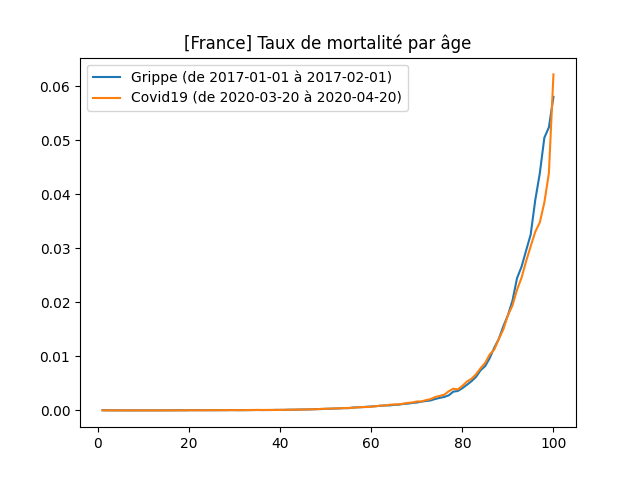
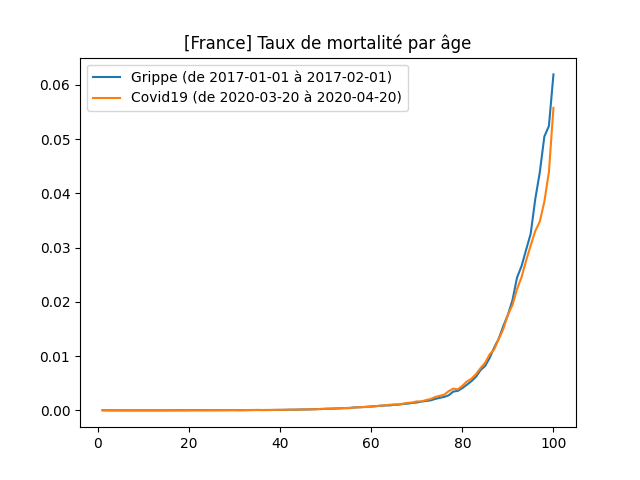
age between 0 and 100

diff --git a/run.py b/run.py
@@ -10,7 +10,6 @@ from collections import defaultdict
 from glob import glob
 import xlrd
 import matplotlib.pyplot as plt
-import chardet
 
 HERE = os.path.dirname(__file__)
 
@@ -169,7 +168,7 @@ def _import_deces_file(conn, conf):
                 date_deces = _parse_date(line[154:162].decode("utf-8"))
                 naissance_dt = _to_dt(date_naissance)
                 deces_dt = _to_dt(date_deces)
-                age = _dt_to_annees(deces_dt - naissance_dt)
+                age = max(0, min(100, _dt_to_annees(deces_dt - naissance_dt)))
                 parsed = {
                     "sex": _parse_sex(line[80:81].decode("utf-8")),
                     "date_naissance": date_naissance,
@@ -203,9 +202,10 @@ def _import_pda_file(conn, conf):
         assert val != ''
         if type(val) is str:
             # traitement specifique pour "100 et +"
-            return int(re.sub("[^0-9]", "", val))
+            res= int(re.sub("[^0-9]", "", val))
         else:
-            return int(val)
+            res = int(val)
+        return max(0, min(100, res))
     def _parse_int(val):
         if type(val) is int:
             return val
@@ -251,10 +251,7 @@ def _compute_taux_mortalite_par_age():
     with _db_connect() as conn:
         age_range = list(range(1, 101))
         for dr in _get_date_ranges():
-            pop_par_age = _select_pop_par_age(conn, dr["year"])
-            nb_deces_par_age = _select_deces_par_age(conn, dr["range"])
-            _div = lambda a, b: a/b if b else 0
-            taux_mortalite_par_age = {age: _div(nb, pop_par_age.get(age)) for age, nb in nb_deces_par_age.items()}
+            taux_mortalite_par_age = __compute_taux_mortalite_par_age(conn, dr["year"], dr["range"])
             plt.plot(age_range, [taux_mortalite_par_age.get(i, 0) for i in age_range], label=dr["name"])
     plt.legend()
     plt.savefig(os.path.join(HERE, 'results/taux_mortalite_par_age.png'))
@@ -274,6 +271,13 @@ def _select_deces_par_age(conn, date_range):
         [*date_range]
     )
     return {age: nb for age, nb in rows}
+
+
+def __compute_taux_mortalite_par_age(conn, year, date_range):
+    pop_par_age = _select_pop_par_age(conn, year)
+    nb_deces_par_age = _select_deces_par_age(conn, date_range)
+    _div = lambda a, b: a/b if b else 0
+    return {age: _div(nb, pop_par_age.get(age)) for age, nb in nb_deces_par_age.items()}
 
 
 @main.command("compute_deces_par_date")
@@ -347,7 +351,7 @@ def compute_taux_mortalite_moyenne_par_age():
 
 
 def _compute_taux_mortalite_moyenne_par_age(annees):
-    print("compute _compute_taux_mortalite_moyenne_par_age")
+    print("compute compute_taux_mortalite_moyenne_par_age")
     plt.clf()
     plt.title("[France] Taux de mortalité moyennée par âge")
     moyennes_mortalite = []
@@ -372,7 +376,7 @@ def compute_mortalite_par_annee():
 
 
 def _compute_mortalite_par_annee():
-    print("compute _mortalite_par_annee")
+    print("compute mortalite_par_annee")
     plt.clf()
     plt.title("[France] Mortalité")
     moyennes_mortalite = []
